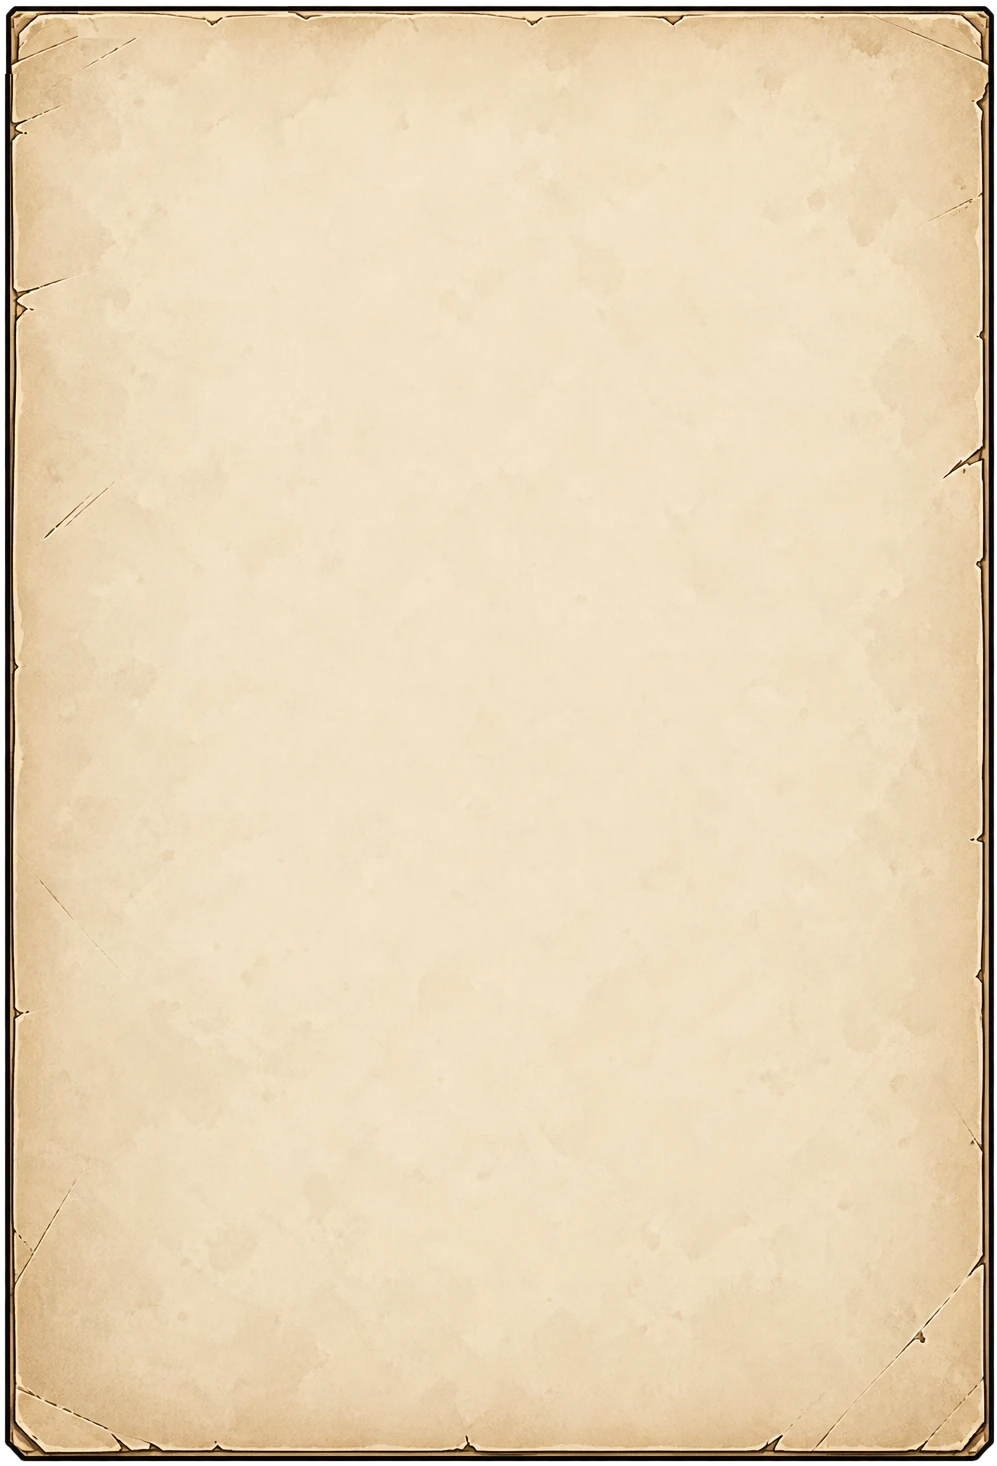
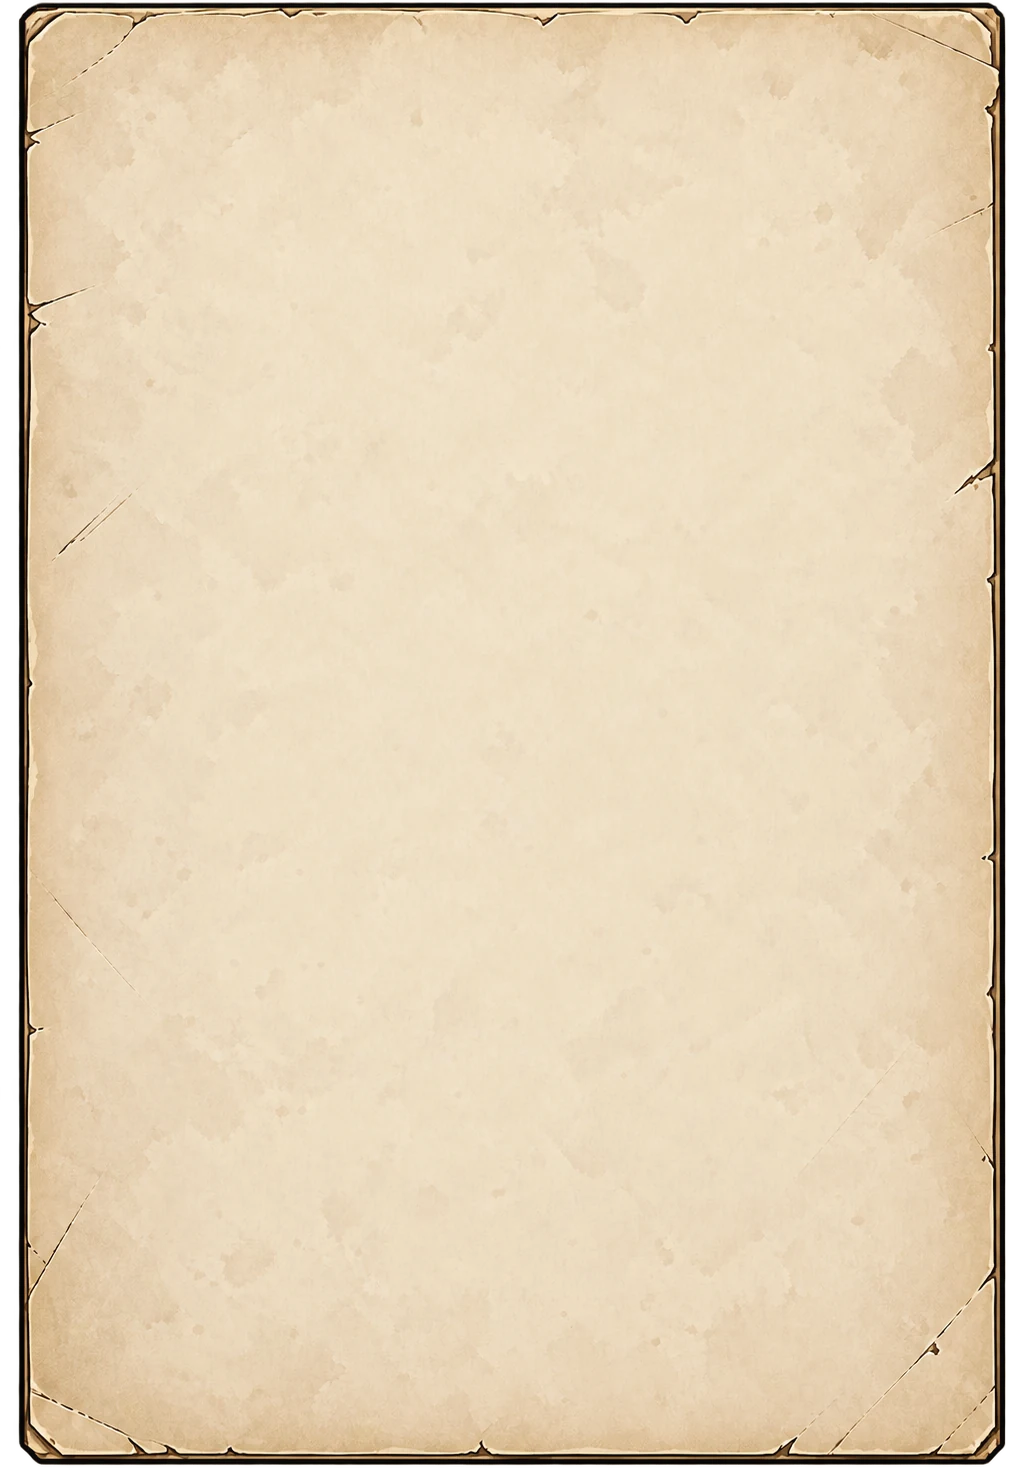
Личное дело: the artist's new sheet and folder tab; no cross over the folder (a swipe right on the cover closes it)
Claude-Session: https://claude.ai/code/session_01E3jaUxUo8xTQNwyakAWMq3

Changed region(s): [[0.0, 0.0, 1.0, 1.0], [0.0622, 0.3377, 0.0933, 0.3683]]

diff --git a/src/app/screens.css b/src/app/screens.css
@@ -3520,11 +3520,11 @@ body.has-full .modal-back:not(.full) { z-index: 88; }
 .dos-back { position: absolute; left: 0; right: 0; top: 30px; bottom: 0; z-index: 0; background: url(/assets/ui/dossier-back.webp) center / 100% 100% no-repeat;
   filter: drop-shadow(0 6px 10px rgba(0, 0, 0, 0.5)); pointer-events: none; }
 .dos-book .dos-tabs { position: relative; z-index: 3; display: flex; align-items: flex-end; gap: 0; margin: 0 34px -6px 14px; padding: 4px 0 0; overflow-x: auto; overflow-y: hidden; scrollbar-width: none; height: 40px; }
-.dos-book .dos-tab { flex: none; position: relative; z-index: 0; margin: 0 -4px 0 0; min-height: 0; height: 30px; background: none; filter: brightness(0.82) saturate(0.9);
-  border-style: solid; border-color: transparent; border-width: 10px 26px 0 14px; border-image: url(/assets/ui/dossier-ptab.webp) 26 70 0 36 fill / 10px 26px 0 14px stretch;
-  padding: 0 0 6px; line-height: 1; white-space: nowrap; color: #5a3f24; font-size: 12.5px; font-weight: 800; transform: translateY(6px); transition: transform 0.2s, filter 0.2s; }
+.dos-book .dos-tab { flex: none; position: relative; z-index: 0; margin: 0 -14px 0 0; min-height: 0; height: 28px; background: none; filter: brightness(0.82) saturate(0.9);
+  border-style: solid; border-color: transparent; border-width: 0 40px 0 8px; border-image: url(/assets/ui/dossier-ptab.webp) 0 280 0 40 fill / 0 40px 0 8px stretch;
+  padding: 0 0 3px 10px; display: flex; align-items: center; line-height: 1; white-space: nowrap; color: #5a3f24; font-size: 12.5px; font-weight: 800; transform: translateY(6px); transition: transform 0.2s, filter 0.2s; }
 .dos-book .dos-tab.past { filter: brightness(0.7) saturate(0.8); }
-.dos-book .dos-tab.on { z-index: 2; filter: none; color: #1e140a; font-weight: 900; height: 34px; transform: none; }
+.dos-book .dos-tab.on { z-index: 2; filter: none; color: #1e140a; font-weight: 900; height: 32px; transform: none; }
 .dos-book .dos-stack { position: relative; z-index: 2; flex: 1; min-height: 0; display: flex; margin: 0 26px 10px 10px; }
 .dos-book .dos-under { position: absolute; inset: 0; z-index: 0; background: url(/assets/ui/dossier-page.webp) center / 100% 100% no-repeat; pointer-events: none; }
 .dos-book .dos-under.u1 { transform: translate(8px, 3px); filter: brightness(0.88); }
@@ -3559,3 +3559,5 @@ body.has-full .modal-back:not(.full) { z-index: 88; }
 @media (prefers-reduced-motion: reduce) { .dos-book .dos-page, .dos-cover { animation-duration: 0.01s !important; } .dos-cover-hint { animation: none; } }
 /* the closed folder hides the pages' tabs */
 .dos-book:has(.dos-cover) .dos-tabs { visibility: hidden; }
+/* the folder closes with a swipe right on the cover, a tap on the dim around it or a menu button: no cross over it */
+.modal.page:has(.dos-book) > .x { display: none; }

diff --git a/src/client/screens/profile.tsx b/src/client/screens/profile.tsx
@@ -287,7 +287,7 @@ function Dossier({ p, onClose, reload }: { p: Profile; onClose: () => void; relo
     if (c.on === null && Math.abs(dx) + Math.abs(dy) > 10) c.on = Math.abs(dx) > Math.abs(dy) * 1.3;
     if (!c.on) return;
     // the cover and the last page only give a little
-    const edge = (dx > 0 && at < 0) || (dx < 0 && at === tabs.length - 1);
+    const edge = dx < 0 && at === tabs.length - 1;
     setDrag(edge ? dx * 0.25 : dx);
   };
   const onEnd = () => {
@@ -295,7 +295,8 @@ function Dossier({ p, onClose, reload }: { p: Profile; onClose: () => void; relo
     touch.current = null;
     if (!c?.on) return;
     if (drag < -60) turn(at + 1);
-    else if (drag > 60) turn(at - 1);
+    // a swipe right on the cover closes the folder
+    else if (drag > 60) { if (at < 0) onClose(); else turn(at - 1); }
     else setDrag(0);
   };
   const under = Math.min(2, tabs.length - 1 - Math.max(0, at));

diff --git a/tools/ui/build-dossier.py b/tools/ui/build-dossier.py
@@ -1,38 +1,30 @@
 """
 «Личное дело» from the artist's pictures (tools/ui/):
-  dossier-page-src.png  — a sheet with its folder tab top-left → dossier-page.webp (the sheet, the tab cut off and the top
-                          edge closed with the top-right corner mirrored) and dossier-ptab.webp (the tab alone, for a
-                          9-slice tab of any width: the rounded left, the slant on the right)
+  dossier-page-src.png  — the sheet → dossier-page.webp
+  dossier-ptab-src.png  — the folder tab → dossier-ptab.webp (a 9-slice tab of any width: the cut corner on the left,
+                          the step down on the right)
   dossier-cover-src.png — the cover «Личное дело №__», photo frame, «ФИО» → dossier-cover.webp
   dossier-back-src.png  — the inside of the back cover (under the pages) → dossier-back.webp
 """
 import numpy as np
 from PIL import Image
 
+# the sheet: everything above its top edge (faint guide marks) cut away
 pg = Image.open("tools/ui/dossier-page-src.png").convert("RGBA")
-W, H = pg.size
-TOP = 62          # the sheet's top edge (rows above it are the tab)
-TAB_R = 300       # the tab ends here (its slant reaches the edge at ~x 290)
-body = pg.copy()
-a = np.array(body)
-a[:TOP, :TAB_R] = 0
-body = Image.fromarray(a)
-# close the top edge over the tab's foot: the edge strip from the middle, then the top-right corner mirrored
-strip = pg.crop((320, TOP - 2, 320 + TAB_R, TOP + 34))
-body.paste(strip, (0, TOP - 2))
-corner = pg.crop((W - 90, TOP - 2, W, TOP + 70)).transpose(Image.FLIP_LEFT_RIGHT)
-cm = np.array(corner); cm[..., 3] = np.where(cm[..., 3] > 0, cm[..., 3], 0)
-body.paste(corner, (0, TOP - 2))
-# a clean transparent column left of the left border (what the mirrored corner brought in)
-a = np.array(body); left = np.array(pg)[TOP + 120, :, 3]
-x0 = int(np.argmax(left > 200)); a[:TOP + 70, :max(0, x0 - 2)] = 0
-body = Image.fromarray(a)
-bb = body.getbbox()
-body = body.crop((bb[0], TOP - 4, bb[2], bb[3]))
-body.save("public/assets/ui/dossier-page.webp", quality=88, method=6)
-tab = pg.crop((bb[0], 0, TAB_R + 10, TOP + 14))
-tab.save("public/assets/ui/dossier-ptab.webp", quality=90, method=6)
-print("page", body.size, "tab", tab.size)
+a = np.array(pg)
+top = int(np.argmax(a[:, pg.width // 2, 3] > 200))
+a[: max(0, top - 3)] = 0
+pg = Image.fromarray(a)
+pg = pg.crop(pg.getbbox())
+pg.save("public/assets/ui/dossier-page.webp", quality=88, method=6)
+# the folder tab: its own picture, trimmed to the drawn shape
+tb = Image.open("tools/ui/dossier-ptab-src.png").convert("RGBA")
+t = np.array(tb)
+ys, xs = np.where(t[..., 3] > 200)
+tb = tb.crop((max(0, xs.min() - 6), max(0, ys.min() - 6), xs.max() + 7, ys.max() + 7))
+tb = tb.resize((tb.width // 2, tb.height // 2), Image.LANCZOS)
+tb.save("public/assets/ui/dossier-ptab.webp", quality=90, method=6)
+print("page", pg.size, "tab", tb.size)
 
 for src, out in (("dossier-cover-src.png", "dossier-cover.webp"), ("dossier-back-src.png", "dossier-back.webp")):
     im = Image.open("tools/ui/" + src).convert("RGBA")
